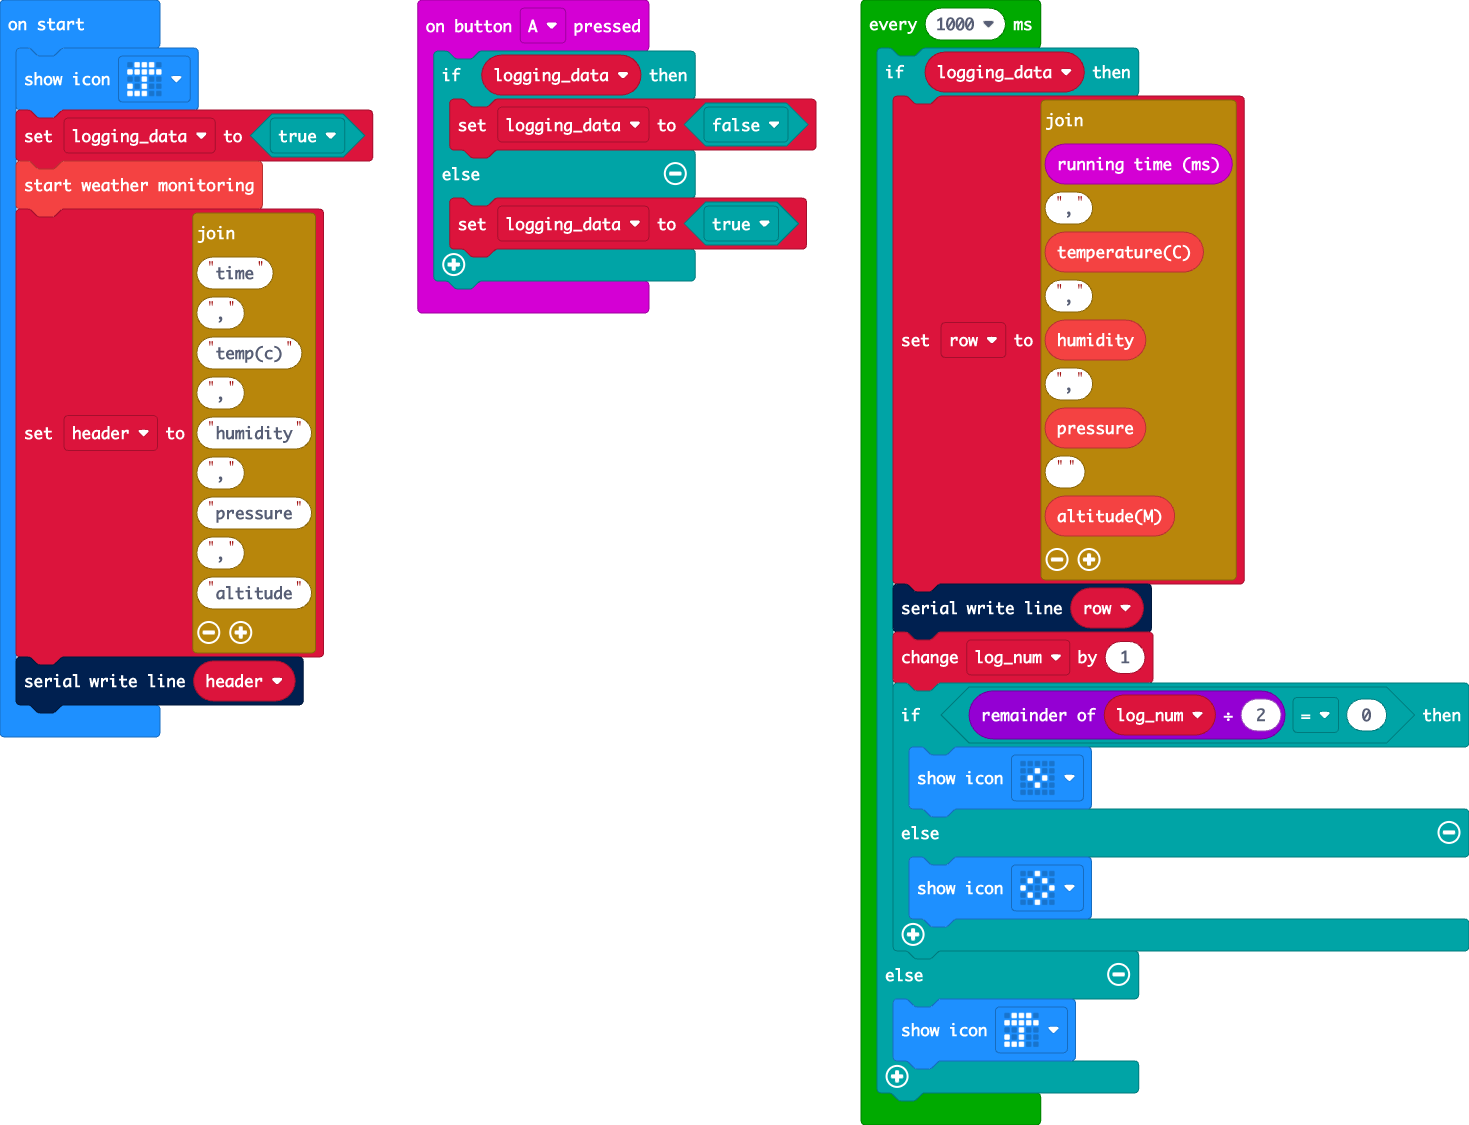
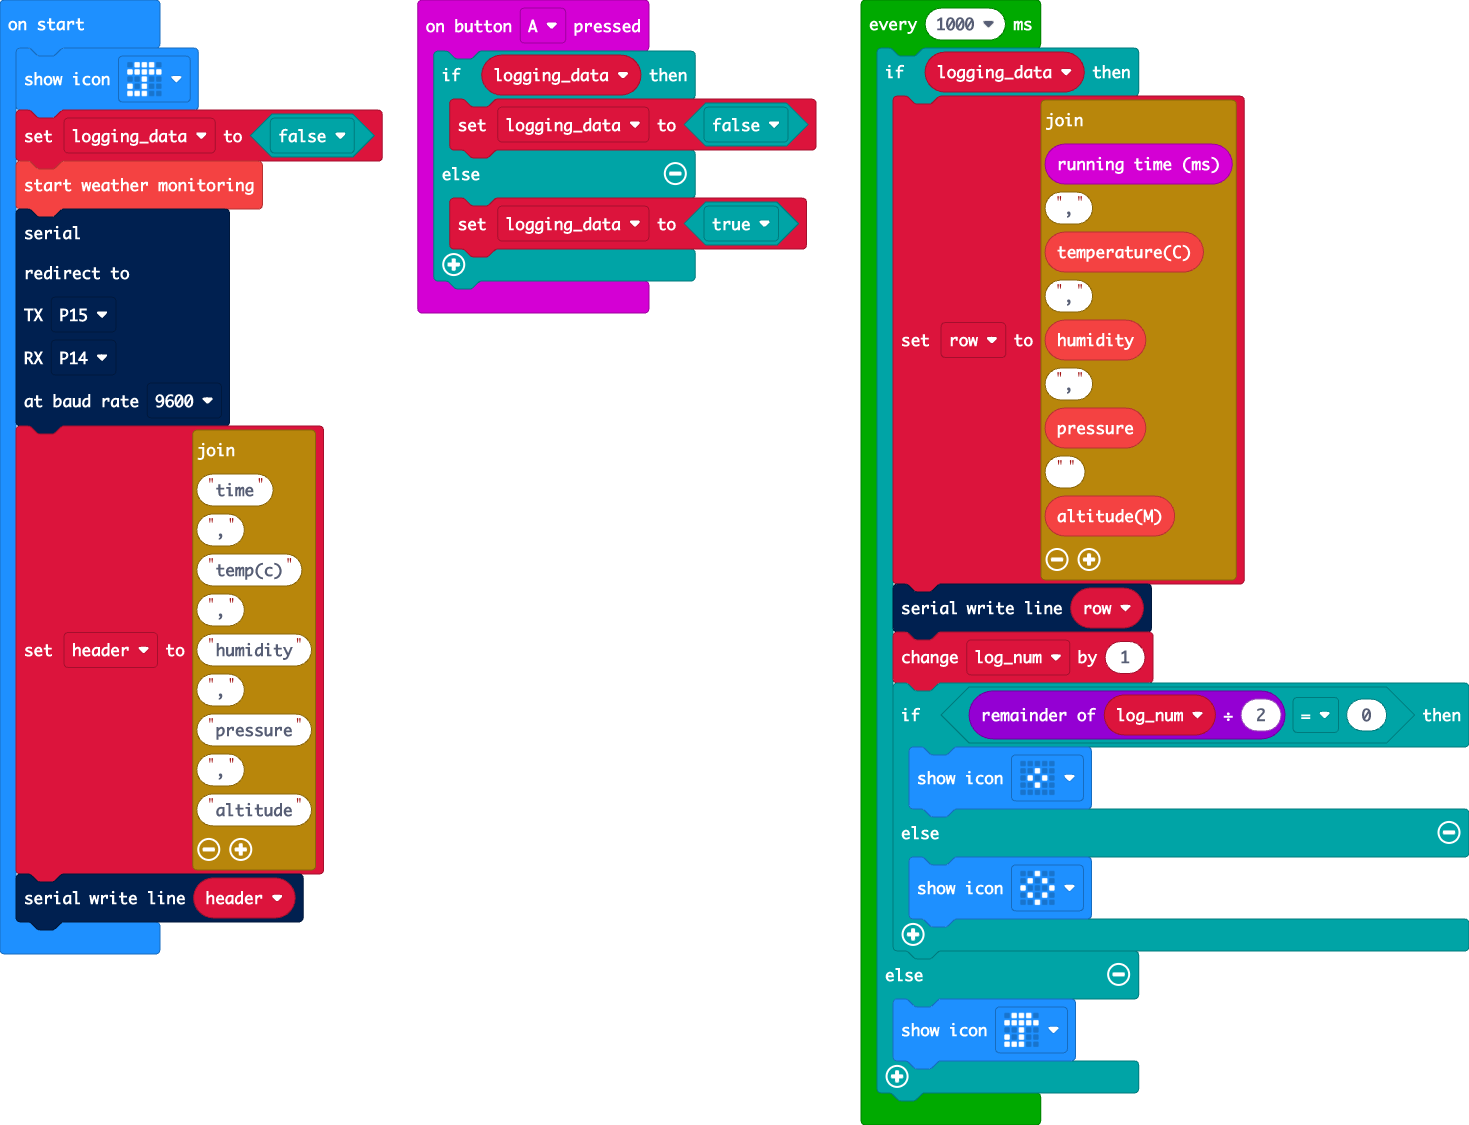
Update main.blocks, main.ts

Changed region(s): [[0.0, 0.1867, 0.2451, 0.8711], [0.1838, 0.0933, 0.2757, 0.1556]]

diff --git a/main.ts b/main.ts
@@ -9,8 +9,13 @@ let log_num = 0
 let row = ""
 let logging_data = false
 basic.showIcon(IconNames.Umbrella)
-logging_data = true
+logging_data = false
 weatherbit.startWeatherMonitoring()
+serial.redirect(
+SerialPin.P15,
+SerialPin.P14,
+BaudRate.BaudRate9600
+)
 let header = "time" + "," + "temp(c)" + "," + "humidity" + "," + "pressure" + "," + "altitude"
 serial.writeLine(header)
 loops.everyInterval(1000, function () {
